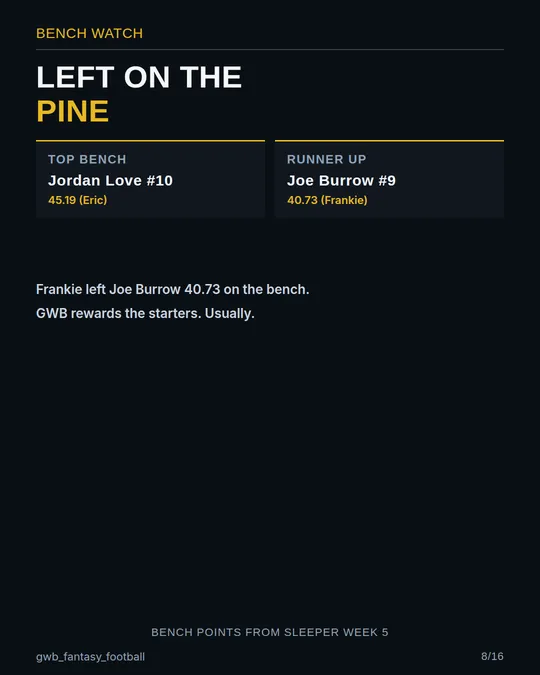
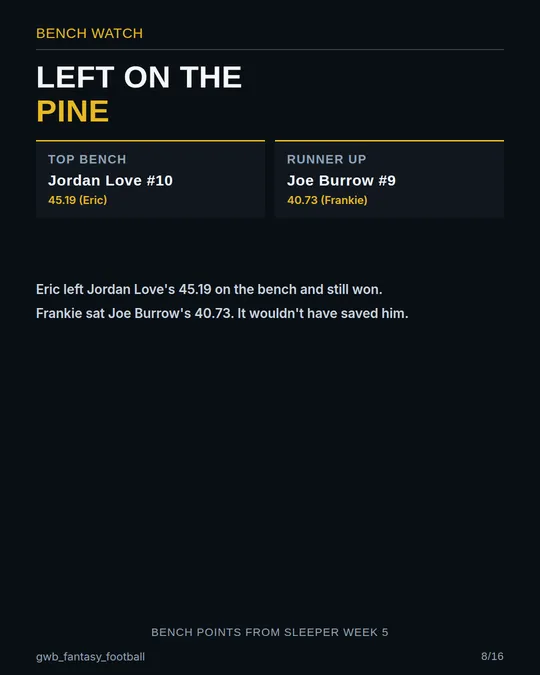
Update w5-slide-08 bench watch body copy

Changed region(s): [[0.0593, 0.4044, 0.7407, 0.4978]]

diff --git a/apps/gwb/scripts/w5-report-deck/output/.tmp-w5-slide-08.html b/apps/gwb/scripts/w5-report-deck/output/.tmp-w5-slide-08.html
@@ -93,7 +93,7 @@ body {
     <h1 class="title-split anton">LEFT ON THE<br/><span class="gold anton">PINE</span></h1>
   </div>
   <div class="stat-grid"><div class="stat-box inter-semibold"><div class="label bebas">TOP BENCH</div><div class="value bebas">Jordan Love #10</div><div class="sub">45.19 (Eric)</div></div><div class="stat-box inter-semibold"><div class="label bebas">RUNNER UP</div><div class="value bebas">Joe Burrow #9</div><div class="sub">40.73 (Frankie)</div></div></div>
-  <div class="body-block inter-semibold" style="top:560px"><p>Frankie left Joe Burrow 40.73 on the bench.</p><p>GWB rewards the starters. Usually.</p></div>
+  <div class="body-block inter-semibold" style="top:560px"><p>Eric left Jordan Love's 45.19 on the bench and still won.</p><p>Frankie sat Joe Burrow's 40.73. It wouldn't have saved him.</p></div>
   <div class="footnote bebas">BENCH POINTS FROM SLEEPER WEEK 5</div>
   <div class="footer inter"><span>gwb_fantasy_football</span><span class="bebas">8/16</span></div>
 </div></body></html>
